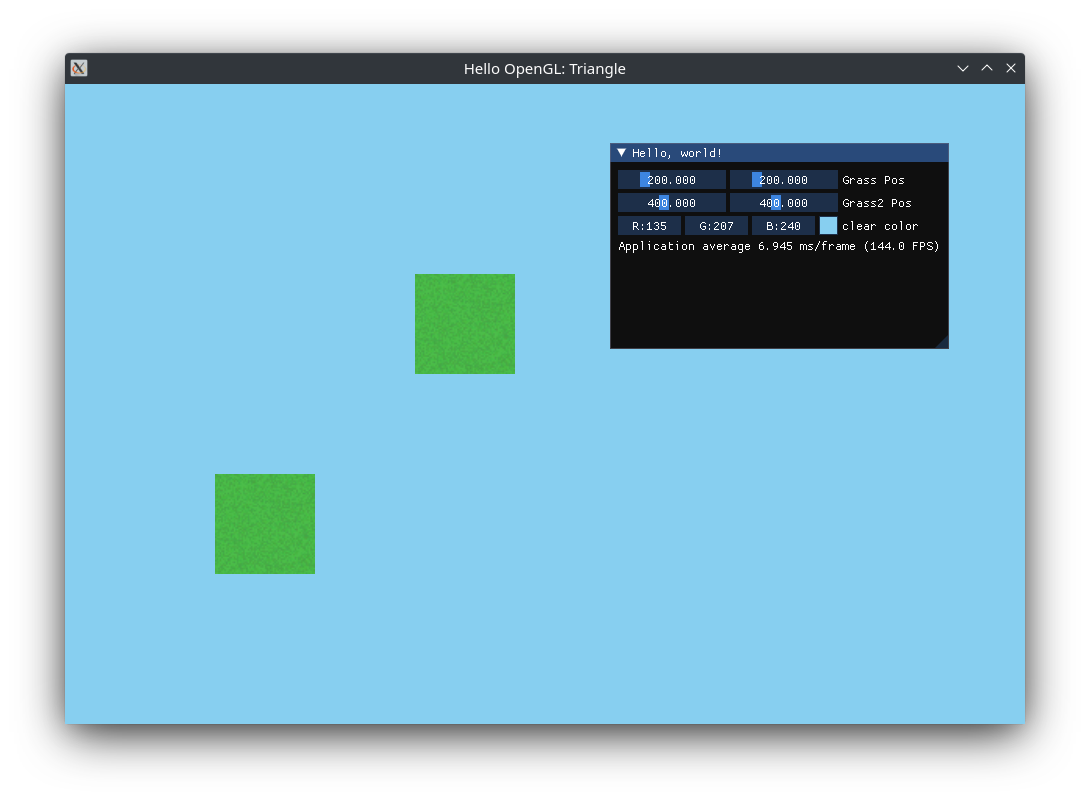
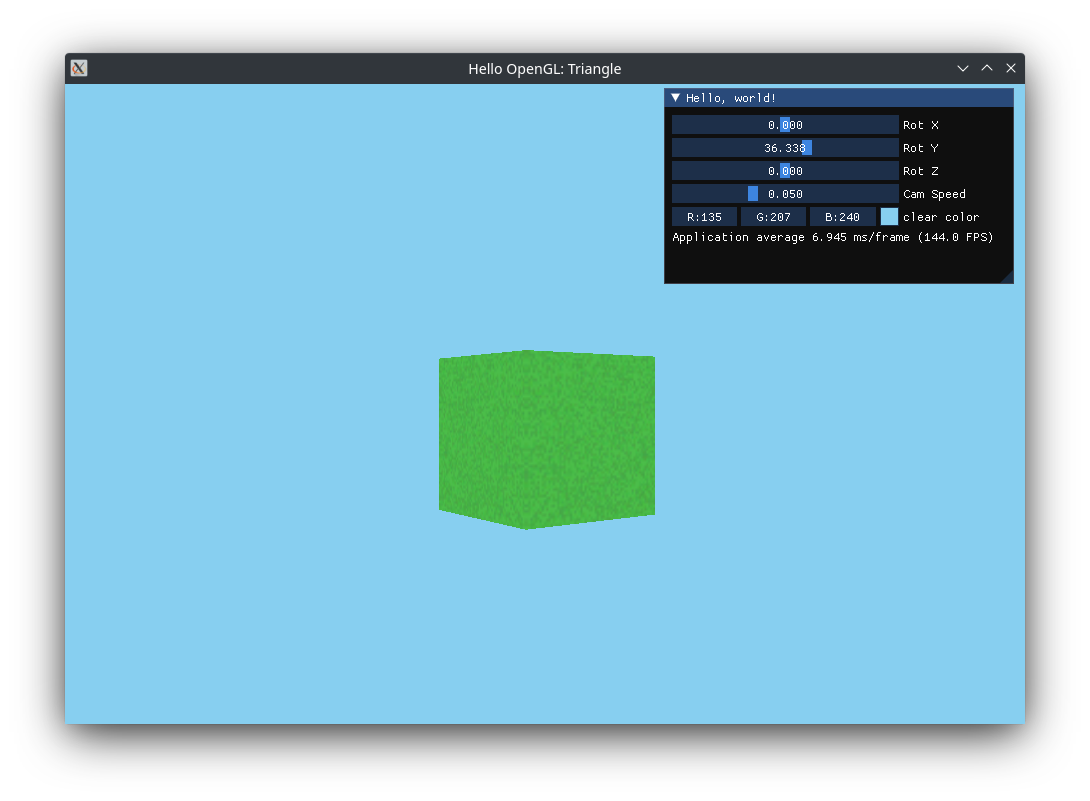
3D

Changed region(s): [[0.3743, 0.0936, 0.9358, 0.6866], [0.1872, 0.593, 0.3119, 0.7179], [0.4367, 0.0624, 0.5615, 0.0936]]

diff --git a/src/main.cpp b/src/main.cpp
@@ -18,7 +18,8 @@
 #include <ImGUI/imgui_impl_glfw.h>
 #include <ImGUI/imgui_impl_opengl3.h>
 
-
+#define HEIGHT 640
+#define WIDTH 960
 
 int main(void)
 {
@@ -32,7 +33,7 @@ int main(void)
     glfwWindowHint(GLFW_OPENGL_DEBUG_CONTEXT, GLFW_TRUE);
 
     /* Create a windowed mode window and its OpenGL context */
-    window = glfwCreateWindow(960, 640, "Hello OpenGL: Triangle", NULL, NULL);
+    window = glfwCreateWindow(WIDTH, HEIGHT, "Hello OpenGL: Triangle", NULL, NULL);
     if (!window)
     {
         glfwTerminate();
@@ -58,7 +59,7 @@ int main(void)
     io.ConfigFlags |= ImGuiConfigFlags_DockingEnable;           // Enable Docking
     io.ConfigFlags |= ImGuiConfigFlags_ViewportsEnable;         // Enable Multi-Viewport / Platform Windows
     //io.ConfigViewportsNoAutoMerge = true;
-    //io.ConfigViewportsNoTaskBarIcon = true;
+    io.ConfigViewportsNoTaskBarIcon = true;
 
     // Setup Dear ImGui style
     ImGui::StyleColorsDark();
@@ -74,34 +75,70 @@ int main(void)
     // Setup Platform/Renderer backends
     ImGui_ImplGlfw_InitForOpenGL(window, true);
     ImGui_ImplOpenGL3_Init((char*)glGetString(330));
-
+    /*
     float pos[] = {
-        -50.0f, -50.0f, 0.0f, 0.0f,
-        50.0f, -50.0f, 1.0f, 0.0f,
-        50.0f,  50.0f, 1.0f, 1.0f,
-        -50.0f,  50.0f, 0.0f, 1.0f,
+        -0.5f, 0.0f, 0.5f, 0.0f, 0.0f,
+        -0.5f, 0.0f,-0.5f, 1.0f, 0.0f,
+         0.5f, 0.0f,-0.5f, 0.0f, 0.0f,
+         0.5f, 0.0f, 0.5f, 1.0f, 0.0f,
+         0.0f, 1.0f, 0.0f, 0.5f, 1.0f
     };
 
     uint32_t indices[] = {
         0, 1, 2,
-        2, 3, 0
+        0, 2, 3,
+        0, 1, 4,
+        1, 2, 4,
+        2, 3, 4,
+        3, 0, 4
+    };
+    */
+
+    float pos[] = {
+        -0.5f, 0.0f, 0.5f,    0.0f, 0.0f,
+        -0.5f, 0.0f,-0.5f,    1.0f, 0.0f,
+         0.5f, 0.0f,-0.5f,    1.0f, 0.0f,
+         0.5f, 0.0f, 0.5f,    1.0f, 0.0f,
+        
+        -0.5f, 1.0f, 0.5f,    0.0f, 1.0f,
+        -0.5f, 1.0f,-0.5f,    1.0f, 1.0f,
+         0.5f, 1.0f,-0.5f,    0.0f, 1.0f,
+         0.5f, 1.0f, 0.5f,    1.0f, 1.0f,
+    };
+    
+    uint32_t indices[] = {
+        0, 1, 2,
+        0, 2, 3,
+        0, 1, 5,
+        0, 4, 5,
+        1, 2, 5,
+        2, 5, 6,
+        2, 3, 6,
+        3, 6, 7,
+        0, 3, 4,
+        3, 4, 7,
+        4, 5, 6,
+        4, 6, 7
     };
 
     glEnable(GL_BLEND);
     glBlendFunc(GL_SRC_ALPHA, GL_ONE_MINUS_SRC_ALPHA);
 
     VertexArray va;
-    VertexBuffer vb(pos, 4 * 4 * sizeof(float));
+    VertexBuffer vb(pos, 8 * 5 * sizeof(float));
     VertexBufferLayout layout;
-    layout.Push<float>(2);
+    layout.Push<float>(3);
     layout.Push<float>(2);
     va.AddBuffer(vb, layout);
-    
-    IndexBuffer ib(indices, 6);
 
+    IndexBuffer ib(indices, sizeof(indices)/sizeof(float));
+    /*
     glm::mat4 proj = glm::ortho(0.0f, 960.0f, 0.0f, 640.0f, -1.0f, 1.0f);
     glm::mat4 view = glm::translate(glm::mat4(1.0f), glm::vec3(0, 0, 0));
-    
+    */
+    glm::mat4 proj = glm::mat4(1.0f);
+    glm::mat4 view = glm::mat4(1.0f);
+
     Shader shader("res/shaders/Basic.shader");
     shader.Bind();
 
@@ -115,11 +152,12 @@ int main(void)
     shader.Unbind();
 
     Renderer renderer;
-
-    glm::vec3 transA(200, 200, 0);
-    glm::vec3 transB(400, 400, 0);
+    glm::vec3 viewTrans(0.0f, -0.7f, -5.0f);
+    float rot[] = { 0, 0, 0 };
     ImVec4 clearColor = ImVec4(0.53f, 0.81f, 0.94f, 1.00f);
+    float speed = 0.05;
 
+    glEnable(GL_DEPTH_TEST);
     /* Loop until the user closes the window */
     while (!glfwWindowShouldClose(window))
     {
@@ -134,26 +172,54 @@ int main(void)
         ImGui_ImplGlfw_NewFrame();
         ImGui::NewFrame();
 
-        {
-            glm::mat4 model = glm::translate(glm::mat4(1.0f), transA);
-            glm::mat4 mvp = proj * view * model;
-            shader.Bind();
-            shader.SetUniformMat4f("u_MVP", mvp);
-            renderer.Draw(va, ib, shader);
-        }
+        glm::mat4 model = glm::mat4(1.0f);
+        model = glm::rotate(model, glm::radians(rot[0]), glm::vec3(1.0f, 0.0f, 0.0f));
+        model = glm::rotate(model, glm::radians(rot[1]), glm::vec3(0.0f, 1.0f, 0.0f));
+        model = glm::rotate(model, glm::radians(rot[2]), glm::vec3(0.0f, 0.0f, 1.0f));
 
+        
+        view = glm::translate(view, viewTrans);
+        proj = glm::perspective(glm::radians(45.0f), ((float)WIDTH/HEIGHT), 0.1f, 100.0f);
+
+        glm::mat4 mvp = proj * view * model;
+
+        shader.Bind();
+        shader.SetUniformMat4f("u_MVP", mvp);
+        renderer.Draw(va, ib, shader);
+
+        viewTrans = glm::vec3(0.0f);
+        
         {
-            glm::mat4 model = glm::translate(glm::mat4(1.0f), transB);
-            glm::mat4 mvp = proj * view * model;
-            shader.SetUniformMat4f("u_MVP", mvp);
-            renderer.Draw(va, ib, shader);
+            float x = 0, y = 0, z = 0;
+            if(glfwGetKey(window, GLFW_KEY_W) == GLFW_PRESS) {
+                z += speed;
+            }
+            if(glfwGetKey(window, GLFW_KEY_S) == GLFW_PRESS) {
+                z -= speed;
+            }
+            if(glfwGetKey(window, GLFW_KEY_E) == GLFW_PRESS) {
+                y -= speed;
+            }
+            if(glfwGetKey(window, GLFW_KEY_Q) == GLFW_PRESS) {
+                y += speed;
+            }
+            if(glfwGetKey(window, GLFW_KEY_D) == GLFW_PRESS) {
+                x -= speed;
+            }
+            if(glfwGetKey(window, GLFW_KEY_A) == GLFW_PRESS) {
+                x += speed;
+            }
+            viewTrans = glm::vec3(x, y, z);
         }
 
         {
             ImGui::Begin("Hello, world!");
 
-            ImGui::SliderFloat2("Grass Pos", &transA.x, 0.0f, 960.0f);
-            ImGui::SliderFloat2("Grass2 Pos", &transB.x, 0.0f, 960.0f);
+            ImGui::SliderFloat("Rot X", &rot[0], -180.0f, 180.0f);
+            ImGui::SliderFloat("Rot Y", &rot[1], -180.0f, 180.0f);
+            ImGui::SliderFloat("Rot Z", &rot[2], -180.0f, 180.0f);
+            
+            ImGui::SliderFloat("Cam Speed", &speed, 0.01f, 0.125f);
 
             ImGui::ColorEdit3("clear color", (float*)&clearColor);
 

diff --git a/src/Renderer.cpp b/src/Renderer.cpp
@@ -23,5 +23,5 @@ void Renderer::Draw(const VertexArray& va, const IndexBuffer& ib, const Shader& 
 }
 
 void Renderer::Clear() {
-       glClear(GL_COLOR_BUFFER_BIT);
+       glClear(GL_COLOR_BUFFER_BIT | GL_DEPTH_BUFFER_BIT);
 }
